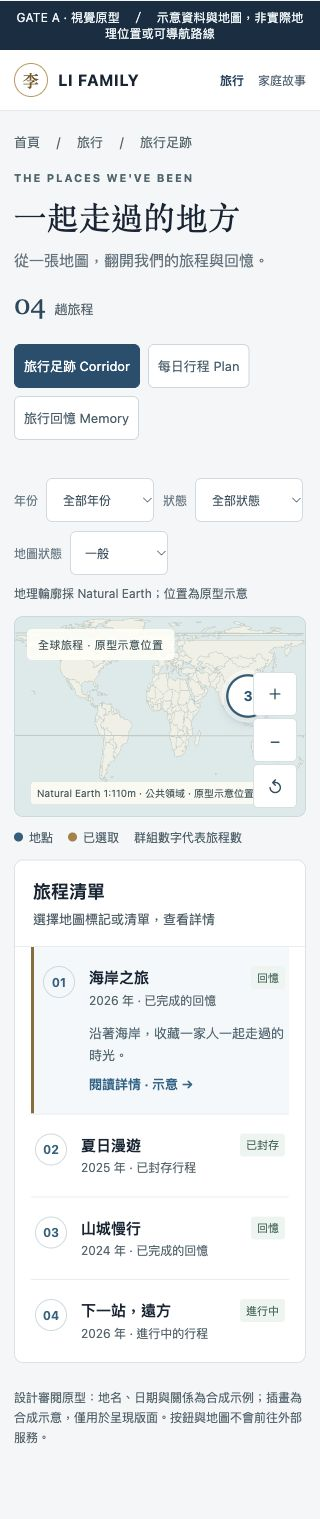
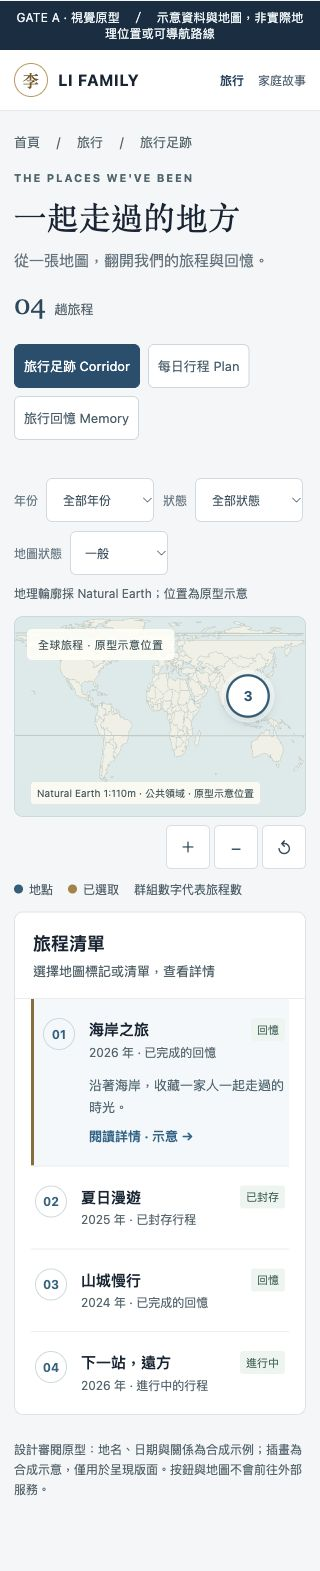
Refine Atlas Gate A review prototype

diff --git a/docs/phase-artifacts/issue-175/gate-a/prototype.html b/docs/phase-artifacts/issue-175/gate-a/prototype.html
@@ -1,6 +1,6 @@
 <!doctype html><html lang="zh-Hant"><head><meta charset="utf-8"><meta name="viewport" content="width=device-width,initial-scale=1"><title>Travel Atlas · Gate A 視覺原型（合成資料）</title><style>
-:root{font-family:Inter,"Noto Sans TC",ui-sans-serif,system-ui,sans-serif;color:#172535;background:#f3f6f8;--blue:#1765a8;--line:#d5dfe4;--muted:#657580}*{box-sizing:border-box}body{margin:0}button,select{font:inherit}button{cursor:pointer}button:focus-visible,select:focus-visible{outline:3px solid #8f6525;outline-offset:3px}.prototype{background:#142e43;color:#edf5f7;font-size:12px;text-align:center;padding:8px 16px;letter-spacing:.02em}.top{background:#fff;border-bottom:1px solid #e2e9ec}.nav{max-width:1360px;margin:auto;padding:16px 36px;display:flex;align-items:center;justify-content:space-between;gap:20px}.brand{display:flex;align-items:center;gap:10px;font-weight:700;letter-spacing:.04em}.crest{width:34px;height:34px;border:1px solid #bb9959;border-radius:50%;display:grid;place-items:center;color:#765b26;font-family:serif}.navlinks{font-size:14px;color:#526575;display:flex;gap:28px}.navlinks span:first-child{color:#193e5c;font-weight:700}.shell{max-width:1360px;padding:28px 36px 80px;margin:auto}.breadcrumbs{font-size:13px;color:#53666e;margin-bottom:24px}.eyebrow{font-size:11px;letter-spacing:.16em;color:#49656e;font-weight:700;text-transform:uppercase}.intro{display:flex;justify-content:space-between;align-items:end;gap:24px;margin-bottom:24px}.intro h1{font-family:Georgia,"Noto Serif TC",serif;font-size:clamp(36px,4vw,52px);font-weight:500;letter-spacing:.01em;margin:9px 0}.intro p{color:#61737d;line-height:1.7;margin:0;font-size:15px}.count{font-size:13px;color:#53666e;white-space:nowrap}.count strong{font-family:Georgia,serif;font-size:27px;color:#24485d;font-weight:400;margin-right:5px}.tabs{display:flex;gap:8px;flex-wrap:wrap;margin-bottom:28px}.tabs button,.chip{border:1px solid #cbd8df;background:#fff;color:#475f6d;border-radius:6px;min-height:44px;padding:0 17px;font-size:14px}.tabs button[aria-selected=true]{background:#1d4f70;color:white;border-color:#1d4f70}.filterbar{display:flex;align-items:end;justify-content:space-between;gap:16px;margin-bottom:14px}.filters{display:flex;gap:9px;flex-wrap:wrap}.filterbar label{font-size:12px;color:#647984;display:flex;align-items:center;gap:8px}.filterbar select{height:44px;border:1px solid #cedae0;border-radius:6px;padding:0 30px 0 12px;background:#fff;color:#314b5a}.smallnote{font-size:12px;color:#53666e}.layout{display:grid;grid-template-columns:minmax(0,1.65fr) minmax(300px,1fr);gap:20px;align-items:start}.map{height:auto;aspect-ratio:800 / 550;position:relative;overflow:hidden;border:1px solid #c9d8dc;border-radius:9px;background:#dcebed}.map svg{width:100%;height:100%;display:block}.map-label{position:absolute;top:20px;left:20px;z-index:1;background:#fffef7e8;padding:8px 11px;border-radius:5px;font-size:11px;color:#435b60;letter-spacing:.04em}.map-foot{position:absolute;bottom:12px;left:16px;z-index:1;color:#435b60;background:#fffdf4dc;border-radius:3px;padding:4px 6px;font-size:10px}.marker{position:absolute;transform:translate(-50%,-50%);width:44px;height:44px;border:0;background:transparent;display:grid;place-items:center;padding:0;z-index:2}.marker i{font-style:normal;display:grid;place-items:center;background:#235c7d;color:#fff;border:3px solid #fff;width:32px;height:32px;border-radius:50%;box-shadow:0 2px 8px #1c47575c;font-size:12px;font-weight:700;transition:transform .18s,box-shadow .18s}.marker.selected i{background:#74541f;transform:scale(1.15);box-shadow:0 0 0 4px #fff8,0 3px 9px #1c47575c}.marker.cluster i{background:#fff;color:#1b5572;border:2px solid #255d78;width:38px;height:38px}.popup{position:absolute;left:17%;top:21%;z-index:3;background:#fff;border-radius:7px;box-shadow:0 8px 30px #1e3b4350;padding:13px 15px;width:190px;font-size:12px;color:#53666e}.popup strong{display:block;font-size:15px;color:#203b49;margin-bottom:5px}.popup button{border:0;background:none;color:#1a648d;padding:8px 0 0;font-weight:700}.popup .close{float:right;padding:0;font-size:18px;color:#4c626b;line-height:1}.controls{position:absolute;right:14px;bottom:14px;z-index:5;display:flex;flex-direction:column;gap:4px}.controls button{width:44px;height:44px;border:1px solid #d4e0e1;background:#fff;color:#294e60;border-radius:5px;font-size:17px}.panel{background:#fff;border:1px solid #dbe4e8;border-radius:9px;overflow:hidden}.panelhead{padding:22px 22px 16px;border-bottom:1px solid #e8edef}.panelhead h2{font-size:18px;margin:0 0 6px}.panelhead p{margin:0;color:#4c6068;font-size:13px}.items{padding:0 20px}.item{width:100%;text-align:left;display:flex;gap:14px;padding:19px 4px;border:0;border-bottom:1px solid #e9eef0;background:transparent;color:inherit}.item:last-child{border-bottom:0}.item.selected{background:#f3f8fa;box-shadow:inset 3px 0 #8b6c32;padding-left:12px}.num{flex:none;width:32px;height:32px;display:grid;place-items:center;border:1px solid #c9dbe1;border-radius:50%;font-size:12px;color:#256281;font-weight:700}.itembody{flex:1;min-width:0}.itemtop{display:flex;justify-content:space-between;gap:8px}.item strong{font-size:15px;line-height:1.5}.meta{font-size:12px;color:#53666e;margin-top:5px;line-height:1.6}.tag{font-size:11px;color:#426c62;background:#edf5f0;border-radius:3px;padding:4px 6px;white-space:nowrap;height:fit-content}.detail{font-size:13px;line-height:1.7;color:#4e6973;margin-top:12px}.action{display:inline-block;color:#1c6489;font-weight:700;margin-top:7px}.photo{width:100%;height:120px;object-fit:cover;border-radius:4px;margin-top:12px}.caption{font-size:11px;color:#53666e;margin-top:4px}.memory .shell{background:#f8f6f0}.memory .intro h1{color:#37463f}.memory .map{background:#dce9e5}.memory .eyebrow{color:#8a7249}.memory .tabs button[aria-selected=true]{background:#4e675d;border-color:#4e675d}.memory .marker i{background:#537166}.memory .marker.selected i{background:#74541f}.footnote{margin-top:24px;color:#53666e;font-size:12px;line-height:1.7}.empty{padding:24px;color:#4c6068;font-size:14px}.empty button{display:block;margin-top:12px;border:0;background:none;color:#1765a8;padding:0;text-decoration:underline}.legend{display:flex;gap:15px;flex-wrap:wrap;font-size:12px;color:#4c626b;margin-top:12px}.dot{display:inline-block;width:9px;height:9px;border-radius:50%;background:#285e7d;margin-right:6px}.dot.gold{background:#aa803d}.days{display:flex;gap:8px;overflow:auto;margin-bottom:16px}.days button{white-space:nowrap;border:1px solid #cbd8df;background:#fff;border-radius:6px;min-height:44px;padding:0 16px;color:#49616d}.days button.active{background:#1d4f70;color:#fff}.days button:disabled{opacity:.5;cursor:default}.mobile-detail{display:none}@media(max-width:760px){.nav{padding:13px 20px}.navlinks{gap:14px;font-size:12px}.navlinks span:last-child{display:none}.shell{padding:22px 20px 60px}.breadcrumbs{margin-bottom:20px}.intro{display:block}.intro h1{font-size:36px}.count{margin-top:16px}.tabs{margin-bottom:22px}.tabs button{padding:0 12px}.filterbar{display:block}.filters{margin-bottom:9px}.layout{grid-template-columns:1fr;gap:14px}.map{height:auto;aspect-ratio:800 / 550}.popup{display:none}.mobile-detail{display:block}.panelhead{padding:18px}.items{padding:0 16px}.photo{height:155px}.map-label{top:12px;left:12px}.controls{bottom:8px;right:8px;gap:2px}.controls button{width:44px;height:44px}.controls button{width:44px;height:44px}.smallnote{line-height:1.5}}@media(max-width:350px){.shell{padding-left:14px;padding-right:14px}.nav{padding-left:14px;padding-right:14px}.intro h1{font-size:32px}.tabs button{padding:0 9px;font-size:13px}}@media(prefers-reduced-motion:reduce){*,*::before,*::after{transition-duration:.01ms!important;scroll-behavior:auto!important}}
-.sr-only{position:absolute;width:1px;height:1px;padding:0;margin:-1px;overflow:hidden;clip:rect(0,0,0,0);white-space:nowrap;border:0}.chip-label{display:flex;align-items:center}.detail-block{display:block}.state-picker{font-size:12px;color:#647984;display:flex;align-items:center;gap:8px}.state-picker select{height:44px;border:1px solid #cedae0;border-radius:6px;padding:0 10px;background:white;color:#314b5a}.story-link{display:block;border:0;background:transparent;color:#1765a8;font-weight:700;min-height:44px;padding:0 12px;margin-left:44px}.group-label{padding:14px 4px;font-size:13px;color:#385d6a}.group-label button{float:right;border:0;background:transparent;color:#1765a8;min-height:44px;margin-top:-10px}.popup{transform:translate(18px,-110%)}.popup.popup-left{transform:translate(calc(-100% - 18px),-110%)}.popup.popup-below{transform:translate(18px,12px)}.popup.popup-left.popup-below{transform:translate(calc(-100% - 18px),12px)}.popup-hint{display:block;margin-top:8px;color:#1a648d}.map-overlay{position:absolute;inset:0;z-index:4;background:#eef4f3ed;display:grid;place-items:center;text-align:center;padding:30px;color:#345867;font-size:15px}.map-overlay[hidden],#markers[hidden],.popup[hidden]{display:none}@media(max-width:760px){.state-picker{margin-bottom:9px}.popup{display:none}}@media(prefers-reduced-motion:no-preference){.item.selected .detail{animation:chapter-in .3s ease-out}@keyframes chapter-in{from{opacity:.3;transform:translateY(5px)}to{opacity:1;transform:translateY(0)}}}</style></head><body><div class="prototype">GATE A · 視覺原型　／　示意資料與地圖，非實際地理位置或可導航路線</div><div id="announcement" class="sr-only" aria-live="polite"></div><div id="app"><header class="top"><div class="nav"><div class="brand"><span class="crest">李</span><span>LI FAMILY</span></div><div class="navlinks"><span>旅行</span><span>家庭故事</span><span>關於我們</span></div></div></header><main class="shell"><div class="breadcrumbs">首頁　 /　 旅行　 /　 <span id="crumb">旅行足跡</span></div><div class="intro"><div><div class="eyebrow" id="eyebrow">THE PLACES WE'VE BEEN</div><h1 id="title">一起走過的地方</h1><p id="subtitle">從一張地圖，翻開我們的旅程與回憶。</p></div><div class="count" id="count"><strong>4</strong> 趟旅程</div></div><div class="tabs" role="tablist" aria-label="原型頁面"><button role="tab" aria-selected="true" data-page="corridor">旅行足跡 Corridor</button><button role="tab" aria-selected="false" data-page="plan">每日行程 Plan</button><button role="tab" aria-selected="false" data-page="memory">旅行回憶 Memory</button></div><div id="days" class="days" hidden></div><div class="filterbar"><div class="filters" id="filters"></div><label class="state-picker">地圖狀態 <select id="map-state"><option>一般</option><option>載入中</option><option>地圖不可用</option><option>家庭隱私</option><option>無地點</option></select></label><div class="smallnote" id="hint">地圖與清單呈現相同的示意內容</div></div><div class="layout"><section><div class="map" id="map" role="region" aria-label="互動地圖，標記位置為原型示意，清單保留完整旅程"><svg viewBox="0 0 800 550" preserveAspectRatio="xMidYMid slice" aria-hidden="true"><rect width="800" height="550" fill="#dbe9e9"/><path d="M-30 70 Q100 42 170 85 T320 67 Q390 40 450 80 L465 126 Q400 158 339 142 T210 190 Q130 175 73 208 L-30 190Z" fill="#f0efe3" stroke="#c6d5cb" stroke-width="2"/><path d="M340 150 Q400 128 470 145 T577 191 Q658 180 722 211 L830 220 L830 485 Q732 476 680 450 T575 470 Q500 433 434 450 T309 420 Q249 380 272 326 T308 260 Q306 204 340 150Z" fill="#f1f0e5" stroke="#c6d5cb" stroke-width="2"/><path d="M-10 313 Q96 287 150 320 T210 391 Q195 445 220 482 L190 560 L-10 560Z" fill="#f0efe3" stroke="#c6d5cb" stroke-width="2"/><path d="M318 250 Q412 248 475 290 T620 313 M300 333 Q430 310 520 365 T730 390 M410 154 Q452 221 471 301 T520 451 M585 188 Q558 260 613 315 T659 453" fill="none" stroke="#d7ddd2" stroke-width="2"/><path d="M290 307 Q410 286 498 298 T660 345" fill="none" stroke="#fffdf7" stroke-width="4"/><g fill="#536a64" font-family="sans-serif" font-size="13" letter-spacing="2"><text x="116" y="269">海洋</text><text x="369" y="210">山 巒</text><text x="546" y="271">城 市</text><text x="400" y="408">海 岸</text></g></svg><div class="map-label" id="map-label">◈　示意地圖</div><div class="map-overlay" id="map-overlay" hidden></div><div id="markers"></div><div class="controls" role="group" aria-label="地圖縮放"><button type="button" data-zoom="in" aria-label="放大地圖">＋</button><button type="button" data-zoom="out" aria-label="縮小地圖">−</button><button type="button" data-zoom="reset" aria-label="重設地圖">↺</button></div><div class="popup" id="popup" hidden></div><div class="map-foot">Natural Earth 1:110m · 公共領域 · 原型示意位置</div></div><div class="legend"><span><i class="dot"></i>地點</span><span><i class="dot gold"></i>已選取</span><span id="legend-extra">數字代表同一地點的旅程數</span></div></section><section class="panel" aria-label="地點與故事清單"><div class="panelhead"><h2 id="list-title">旅程清單</h2><p id="list-sub">選擇地圖標記或清單，查看詳情</p></div><div id="items" class="items"></div></section></div><p class="footnote">設計審閱原型：地名、日期與關係為合成示例；插畫為合成示意，僅用於呈現版面。按鈕與地圖不會前往外部服務。</p></main></div><script>
+:root{font-family:Inter,"Noto Sans TC",ui-sans-serif,system-ui,sans-serif;color:#172535;background:#f3f6f8;--blue:#1765a8;--line:#d5dfe4;--muted:#657580}*{box-sizing:border-box}body{margin:0}button,select{font:inherit}button{cursor:pointer}button:focus-visible,select:focus-visible{outline:3px solid #8f6525;outline-offset:3px}.prototype{background:#142e43;color:#edf5f7;font-size:12px;text-align:center;padding:8px 16px;letter-spacing:.02em}.top{background:#fff;border-bottom:1px solid #e2e9ec}.nav{max-width:1360px;margin:auto;padding:16px 36px;display:flex;align-items:center;justify-content:space-between;gap:20px}.brand{display:flex;align-items:center;gap:10px;font-weight:700;letter-spacing:.04em}.crest{width:34px;height:34px;border:1px solid #bb9959;border-radius:50%;display:grid;place-items:center;color:#765b26;font-family:serif}.navlinks{font-size:14px;color:#526575;display:flex;gap:28px}.navlinks span:first-child{color:#193e5c;font-weight:700}.shell{max-width:1360px;padding:28px 36px 80px;margin:auto}.breadcrumbs{font-size:13px;color:#53666e;margin-bottom:24px}.eyebrow{font-size:11px;letter-spacing:.16em;color:#49656e;font-weight:700;text-transform:uppercase}.intro{display:flex;justify-content:space-between;align-items:end;gap:24px;margin-bottom:24px}.intro h1{font-family:Georgia,"Noto Serif TC",serif;font-size:clamp(36px,4vw,52px);font-weight:500;letter-spacing:.01em;margin:9px 0}.intro p{color:#61737d;line-height:1.7;margin:0;font-size:15px}.count{font-size:13px;color:#53666e;white-space:nowrap}.count strong{font-family:Georgia,serif;font-size:27px;color:#24485d;font-weight:400;margin-right:5px}.tabs{display:flex;gap:8px;flex-wrap:wrap;margin-bottom:28px}.tabs button,.chip{border:1px solid #cbd8df;background:#fff;color:#475f6d;border-radius:6px;min-height:44px;padding:0 17px;font-size:14px}.tabs button[aria-selected=true]{background:#1d4f70;color:white;border-color:#1d4f70}.filterbar{display:flex;align-items:end;justify-content:space-between;gap:16px;margin-bottom:14px}.filters{display:flex;gap:9px;flex-wrap:wrap}.filterbar label{font-size:12px;color:#647984;display:flex;align-items:center;gap:8px}.filterbar select{height:44px;border:1px solid #cedae0;border-radius:6px;padding:0 30px 0 12px;background:#fff;color:#314b5a}.smallnote{font-size:12px;color:#53666e}.layout{display:grid;grid-template-columns:minmax(0,1.65fr) minmax(300px,1fr);gap:20px;align-items:start}.map-wrap{position:relative}.map{height:auto;aspect-ratio:800 / 550;position:relative;overflow:hidden;border:1px solid #c9d8dc;border-radius:9px;background:#dcebed}.map svg{width:100%;height:100%;display:block}.map-label{position:absolute;top:20px;left:20px;z-index:1;background:#fffef7e8;padding:8px 11px;border-radius:5px;font-size:11px;color:#435b60;letter-spacing:.04em}.map-foot{position:absolute;bottom:12px;left:16px;z-index:1;color:#435b60;background:#fffdf4dc;border-radius:3px;padding:4px 6px;font-size:10px}.marker{position:absolute;transform:translate(-50%,-50%);width:44px;height:44px;border:0;background:transparent;display:grid;place-items:center;padding:0;z-index:2}.marker i{font-style:normal;display:grid;place-items:center;background:#235c7d;color:#fff;border:3px solid #fff;width:32px;height:32px;border-radius:50%;box-shadow:0 2px 8px #1c47575c;font-size:12px;font-weight:700;transition:transform .18s,box-shadow .18s}.marker.selected i{background:#74541f;transform:scale(1.15);box-shadow:0 0 0 4px #fff8,0 3px 9px #1c47575c}.marker.cluster i{background:#fff;color:#1b5572;border:2px solid #255d78;width:38px;height:38px}.popup{position:absolute;left:17%;top:21%;z-index:3;background:#fff;border-radius:7px;box-shadow:0 8px 30px #1e3b4350;padding:13px 15px;width:190px;font-size:12px;color:#53666e}.popup strong{display:block;font-size:15px;color:#203b49;margin-bottom:5px}.popup button{border:0;background:none;color:#1a648d;padding:8px 0 0;font-weight:700}.popup .close{float:right;padding:0;font-size:18px;color:#4c626b;line-height:1}.controls{position:absolute;right:14px;bottom:14px;z-index:5;display:flex;flex-direction:column;gap:4px}.controls button{width:44px;height:44px;border:1px solid #d4e0e1;background:#fff;color:#294e60;border-radius:5px;font-size:17px}.panel{background:#fff;border:1px solid #dbe4e8;border-radius:9px;overflow:hidden}.panelhead{padding:22px 22px 16px;border-bottom:1px solid #e8edef}.panelhead h2{font-size:18px;margin:0 0 6px}.panelhead p{margin:0;color:#4c6068;font-size:13px}.items{padding:0 20px}.item{width:100%;text-align:left;display:flex;gap:14px;padding:19px 4px;border:0;border-bottom:1px solid #e9eef0;background:transparent;color:inherit}.item:last-child{border-bottom:0}.item.selected{background:#f3f8fa;box-shadow:inset 3px 0 #8b6c32;padding-left:12px}.num{flex:none;width:32px;height:32px;display:grid;place-items:center;border:1px solid #c9dbe1;border-radius:50%;font-size:12px;color:#256281;font-weight:700}.itembody{flex:1;min-width:0}.itemtop{display:flex;justify-content:space-between;gap:8px}.item strong{font-size:15px;line-height:1.5}.meta{font-size:12px;color:#53666e;margin-top:5px;line-height:1.6}.tag{font-size:11px;color:#426c62;background:#edf5f0;border-radius:3px;padding:4px 6px;white-space:nowrap;height:fit-content}.detail{font-size:13px;line-height:1.7;color:#4e6973;margin-top:12px}.action{display:inline-block;color:#1c6489;font-weight:700;margin-top:7px}.photo{width:100%;height:120px;object-fit:cover;border-radius:4px;margin-top:12px}.caption{font-size:11px;color:#53666e;margin-top:4px}.memory .shell{background:#f8f6f0}.memory .intro h1{color:#37463f}.memory .map{background:#dce9e5}.memory .eyebrow{color:#8a7249}.memory .tabs button[aria-selected=true]{background:#4e675d;border-color:#4e675d}.memory .marker i{background:#537166}.memory .marker.selected i{background:#74541f}.footnote{margin-top:24px;color:#53666e;font-size:12px;line-height:1.7}.empty{padding:24px;color:#4c6068;font-size:14px}.empty button{display:block;margin-top:12px;border:0;background:none;color:#1765a8;padding:0;text-decoration:underline}.legend{display:flex;gap:15px;flex-wrap:wrap;font-size:12px;color:#4c626b;margin-top:12px}.dot{display:inline-block;width:9px;height:9px;border-radius:50%;background:#285e7d;margin-right:6px}.dot.gold{background:#aa803d}.days{display:flex;gap:8px;overflow:auto;margin-bottom:16px}.days button{white-space:nowrap;border:1px solid #cbd8df;background:#fff;border-radius:6px;min-height:44px;padding:0 16px;color:#49616d}.days button.active{background:#1d4f70;color:#fff}.days button:disabled{opacity:.5;cursor:default}.mobile-detail{display:none}@media(max-width:760px){.nav{padding:13px 20px}.navlinks{gap:14px;font-size:12px}.navlinks span:last-child{display:none}.shell{padding:22px 20px 60px}.breadcrumbs{margin-bottom:20px}.intro{display:block}.intro h1{font-size:36px}.count{margin-top:16px}.tabs{margin-bottom:22px}.tabs button{padding:0 12px}.filterbar{display:block}.filters{margin-bottom:9px}.layout{grid-template-columns:1fr;gap:14px}.map{height:auto;aspect-ratio:800 / 550}.popup{display:none}.mobile-detail{display:block}.panelhead{padding:18px}.items{padding:0 16px}.photo{height:155px}.map-label{top:12px;left:12px}.controls{position:static;justify-content:flex-end;flex-direction:row;gap:4px;margin-top:8px}.controls button{width:44px;height:44px}.smallnote{line-height:1.5}}@media(max-width:350px){.shell{padding-left:14px;padding-right:14px}.nav{padding-left:14px;padding-right:14px}.intro h1{font-size:32px}.tabs button{padding:0 9px;font-size:13px}}@media(prefers-reduced-motion:reduce){*,*::before,*::after{transition-duration:.01ms!important;scroll-behavior:auto!important}}
+.sr-only{position:absolute;width:1px;height:1px;padding:0;margin:-1px;overflow:hidden;clip:rect(0,0,0,0);white-space:nowrap;border:0}.chip-label{display:flex;align-items:center}.detail-block{display:block}.state-picker{font-size:12px;color:#647984;display:flex;align-items:center;gap:8px}.state-picker select{height:44px;border:1px solid #cedae0;border-radius:6px;padding:0 10px;background:white;color:#314b5a}.story-link{display:block;border:0;background:transparent;color:#1765a8;font-weight:700;min-height:44px;padding:0 12px;margin-left:44px}.group-label{padding:14px 4px;font-size:13px;color:#385d6a}.group-label button{float:right;border:0;background:transparent;color:#1765a8;min-height:44px;margin-top:-10px}.popup{transform:translate(18px,-110%)}.popup.popup-left{transform:translate(calc(-100% - 18px),-110%)}.popup.popup-below{transform:translate(18px,12px)}.popup.popup-left.popup-below{transform:translate(calc(-100% - 18px),12px)}.popup-hint{display:block;margin-top:8px;color:#1a648d}.map-overlay{position:absolute;inset:0;z-index:4;background:#eef4f3ed;display:grid;place-items:center;text-align:center;padding:30px;color:#345867;font-size:15px}.map-overlay[hidden],#markers[hidden],.popup[hidden]{display:none}@media(max-width:760px){.state-picker{margin-bottom:9px}.popup{display:none}}@media(prefers-reduced-motion:no-preference){.item.selected .detail{animation:chapter-in .3s ease-out}@keyframes chapter-in{from{opacity:.3;transform:translateY(5px)}to{opacity:1;transform:translateY(0)}}}</style></head><body><div class="prototype">GATE A · 視覺原型　／　示意資料與地圖，非實際地理位置或可導航路線</div><div id="announcement" class="sr-only" aria-live="polite"></div><div id="app"><header class="top"><div class="nav"><div class="brand"><span class="crest">李</span><span>LI FAMILY</span></div><div class="navlinks"><span>旅行</span><span>家庭故事</span><span>關於我們</span></div></div></header><main class="shell"><div class="breadcrumbs">首頁　 /　 旅行　 /　 <span id="crumb">旅行足跡</span></div><div class="intro"><div><div class="eyebrow" id="eyebrow">THE PLACES WE'VE BEEN</div><h1 id="title">一起走過的地方</h1><p id="subtitle">從一張地圖，翻開我們的旅程與回憶。</p></div><div class="count" id="count"><strong>4</strong> 趟旅程</div></div><div class="tabs" role="tablist" aria-label="原型頁面"><button role="tab" aria-selected="true" data-page="corridor">旅行足跡 Corridor</button><button role="tab" aria-selected="false" data-page="plan">每日行程 Plan</button><button role="tab" aria-selected="false" data-page="memory">旅行回憶 Memory</button></div><div id="days" class="days" hidden></div><div class="filterbar"><div class="filters" id="filters"></div><label class="state-picker">地圖狀態 <select id="map-state"><option>一般</option><option>載入中</option><option>地圖不可用</option><option>家庭隱私</option><option>無地點</option></select></label><div class="smallnote" id="hint">地圖與清單呈現相同的示意內容</div></div><div class="layout"><section><div class="map-wrap"><div class="map" id="map" role="region" aria-label="互動地圖，標記位置為原型示意，清單保留完整旅程"><svg viewBox="0 0 800 550" preserveAspectRatio="xMidYMid slice" aria-hidden="true"><rect width="800" height="550" fill="#dbe9e9"/><path d="M-30 70 Q100 42 170 85 T320 67 Q390 40 450 80 L465 126 Q400 158 339 142 T210 190 Q130 175 73 208 L-30 190Z" fill="#f0efe3" stroke="#c6d5cb" stroke-width="2"/><path d="M340 150 Q400 128 470 145 T577 191 Q658 180 722 211 L830 220 L830 485 Q732 476 680 450 T575 470 Q500 433 434 450 T309 420 Q249 380 272 326 T308 260 Q306 204 340 150Z" fill="#f1f0e5" stroke="#c6d5cb" stroke-width="2"/><path d="M-10 313 Q96 287 150 320 T210 391 Q195 445 220 482 L190 560 L-10 560Z" fill="#f0efe3" stroke="#c6d5cb" stroke-width="2"/><path d="M318 250 Q412 248 475 290 T620 313 M300 333 Q430 310 520 365 T730 390 M410 154 Q452 221 471 301 T520 451 M585 188 Q558 260 613 315 T659 453" fill="none" stroke="#d7ddd2" stroke-width="2"/><path d="M290 307 Q410 286 498 298 T660 345" fill="none" stroke="#fffdf7" stroke-width="4"/><g fill="#536a64" font-family="sans-serif" font-size="13" letter-spacing="2"><text x="116" y="269">海洋</text><text x="369" y="210">山 巒</text><text x="546" y="271">城 市</text><text x="400" y="408">海 岸</text></g></svg><div class="map-label" id="map-label">◈　示意地圖</div><div class="map-overlay" id="map-overlay" hidden></div><div id="markers"></div><div class="popup" id="popup" hidden></div><div class="map-foot">Natural Earth 1:110m · 公共領域 · 原型示意位置</div></div><div class="controls" role="group" aria-label="地圖縮放"><button type="button" data-zoom="in" aria-label="放大地圖">＋</button><button type="button" data-zoom="out" aria-label="縮小地圖">−</button><button type="button" data-zoom="reset" aria-label="重設地圖">↺</button></div></div><div class="legend"><span><i class="dot"></i>地點</span><span><i class="dot gold"></i>已選取</span><span id="legend-extra">數字代表同一地點的旅程數</span></div></section><section class="panel" aria-label="地點與故事清單"><div class="panelhead"><h2 id="list-title">旅程清單</h2><p id="list-sub">選擇地圖標記或清單，查看詳情</p></div><div id="items" class="items"></div></section></div><p class="footnote">設計審閱原型：地名、日期與關係為合成示例；插畫為合成示意，僅用於呈現版面。按鈕與地圖不會前往外部服務。</p></main></div><script>
 const datasets={
  corridor:[
   {id:'c1',name:'海岸之旅',meta:'2026 年 · 已完成的回憶',status:'回憶',year:'2026',coordinate:[109.51,18.25],place:'coast',detail:'沿著海岸，收藏一家人一起走過的時光。'},
@@ -18,12 +18,12 @@ const worldCountriesPath='M795.8,331.6L796.4,331.1L797.2,332.0L796.8,333.7L795.4
 const baseMapViews={corridor:[0,0,800,550],plan:[686,152,40,27.5],memory:[640.65,217.2,5.3,3.64]};
 function activeMapView(){const [x,y,w,h]=baseMapViews[page];const nextW=w/zoom,nextH=h/zoom;return [x+(w-nextW)/2,y+(h-nextH)/2,nextW,nextH]}
 function mapPoint(coordinate){if(!coordinate)return null;const [lon,lat]=coordinate;const [x,y,w,h]=activeMapView();const px=(lon+180)/360*800,py=(90-lat)/180*550;return [((px-x)/w*100),((py-y)/h*100)]}
-function worldMapSvg(){const view=activeMapView();return `<svg xmlns="http://www.w3.org/2000/svg" viewBox="${view.join(' ')}" preserveAspectRatio="xMidYMid meet" aria-hidden="true"><rect width="800" height="550" fill="#dbe9e9"/><path d="${worldCountriesPath}" fill="#f1f0e5" fill-rule="evenodd" stroke="#bdcbc5" stroke-width="0.55" vector-effect="non-scaling-stroke"/></svg>`}
+function worldMapSvg(){const view=activeMapView();const land=page==='memory'?'<path d="M640.9 218.5 C641.3 217.7 642.0 217.6 642.6 217.7 C643.3 217.5 644.2 217.9 644.7 218.5 C645.2 219.0 644.8 219.8 644.1 220.0 C643.4 220.4 642.4 220.2 641.8 219.9 C641.3 219.6 640.8 219.1 640.9 218.5Z" fill="#f1f0e5" stroke="#bdcbc5" stroke-width="1" vector-effect="non-scaling-stroke"/><path d="M641.5 218.8 Q642.4 218.3 643.0 218.7 T644.5 218.8 M642.0 219.4 Q642.8 219.0 643.4 219.4 T644.1 219.5" fill="none" stroke="#d1dbd2" stroke-width="1" vector-effect="non-scaling-stroke"/>':`<path d="${worldCountriesPath}" fill="#f1f0e5" fill-rule="evenodd" stroke="#bdcbc5" stroke-width="0.55" vector-effect="non-scaling-stroke"/>`;return `<svg xmlns="http://www.w3.org/2000/svg" viewBox="${view.join(' ')}" preserveAspectRatio="xMidYMid meet" aria-hidden="true"><rect width="800" height="550" fill="#dbe9e9"/>${land}</svg>`}
 function announce(t){$('announcement').textContent=t}
 function render(focusKey){document.body.className=page==='memory'?'memory':'';document.querySelectorAll('[data-page]').forEach(b=>b.setAttribute('aria-selected',String(b.dataset.page===page)));let cfg={corridor:['旅行足跡',"THE PLACES WE'VE BEEN",'一起走過的地方','從一張地圖，翻開我們的旅程與回憶。','旅程清單'],plan:['每日行程','A DAY TO EXPLORE','把一天走成風景','沿著行程的節奏，找到今天想去的地方。','今日行程'],memory:['旅行回憶','MOMENTS TO REMEMBER','那些留在路上的時光','每一個地點，都有一段值得慢慢讀的故事。','故事與片刻']}[page];$('crumb').textContent=cfg[0];$('eyebrow').textContent=cfg[1];$('title').textContent=cfg[2];$('subtitle').textContent=cfg[3];$('list-title').textContent=cfg[4];let items=visible();if(selected&&!items.some(i=>i.id===selected))selected=null;const grouped=groups(items);if(selectedGroup&&!grouped.some(g=>g.place===selectedGroup))selectedGroup=null;
 $('count').innerHTML='<strong>'+String(items.length).padStart(2,'0')+'</strong> '+(page==='corridor'?'趟旅程':page==='plan'?'個行程片段':'個故事片刻');$('days').hidden=page==='corridor';$('days').innerHTML=page==='corridor'?'':Object.keys(datasets[page]).map(d=>'<button data-day="'+esc(d)+'" class="'+(d===(page==='plan'?day:chapter)?'active':'')+'" aria-pressed="'+(d===(page==='plan'?day:chapter))+'">'+esc(d)+'</button>').join('');
 $('filters').innerHTML=page==='corridor'?'<label>年份 <select id="year">'+['全部年份','2026','2025','2024'].map(x=>'<option '+(year===x?'selected':'')+'>'+x+'</option>').join('')+'</select></label><label>狀態 <select id="status">'+['全部狀態','進行中','已封存','回憶'].map(x=>'<option '+(status===x?'selected':'')+'>'+x+'</option>').join('')+'</select></label>':'<span class="chip chip-label">'+esc(page==='plan'?day:chapter)+' · '+(page==='plan'?'行程順序':'故事地圖')+'</span>';
-$('map-state').value=mapState;$('hint').textContent='地理輪廓採 Natural Earth；位置為原型示意';const map=$('map');map.querySelector('svg').outerHTML=worldMapSvg();$('map-label').textContent=page==='corridor'?'全球旅程 · 原型示意位置':page==='plan'?'日本行程 · 原型示意位置':'海南島 · 故事地點';
+$('map-state').value=mapState;$('hint').textContent=page==='memory'?'合成島嶼輪廓；位置為原型示意':'地理輪廓採 Natural Earth；位置為原型示意';const map=$('map');map.querySelector('svg').outerHTML=worldMapSvg();$('map-label').textContent=page==='corridor'?'全球旅程 · 原型示意位置':page==='plan'?'日本行程 · 原型示意位置':'合成島嶼 · 故事地點';document.querySelector('.map-foot').textContent=page==='memory'?'合成島嶼輪廓 · 非真實地理':'Natural Earth 1:110m · 公共領域 · 原型示意位置';
 $('legend-extra').textContent=page==='corridor'?'群組數字代表旅程數':page==='plan'?'數字代表順序；重疊位置會合併':'重疊地點的故事會合併';$('markers').hidden=mapState!=='一般';$('map-overlay').hidden=mapState==='一般';$('map-overlay').textContent=mapState==='載入中'?'地圖載入中 · 旅程清單仍可閱讀':mapState==='地圖不可用'?'地圖暫時不可用 · 請使用旅程清單':mapState==='家庭隱私'?'家庭地圖未啟用 · 旅程清單仍可閱讀':'目前沒有可顯示的地點 · 請使用旅程清單';
 $('markers').innerHTML=grouped.map((g,i)=>{const active=g.place===selectedGroup||g.items.some(x=>x.id===selected);return '<button class="marker '+(active?'selected ':'')+(g.items.length>1?'cluster':'')+'" style="left:'+g.pos[0]+'%;top:'+g.pos[1]+'%" data-marker="'+esc(g.place)+'" aria-label="'+esc(g.items.length>1?'展開地圖群組：'+groupText(g):'選取 '+g.items[0].name)+'"><i>'+(g.items.length>1?g.items.length:page==='memory'?'✦':page==='plan'?i+1:'●')+'</i></button>'}).join('');
 let group=grouped.find(g=>g.place===selectedGroup);$('items').innerHTML=(group?'<div class="group-label">'+esc(groupText(group))+' <button data-clear-group>顯示全部</button></div>':'')+(items.length?items.filter(x=>!group||group.items.some(y=>y.id===x.id)).map((x,i)=>'<button class="item '+(x.id===selected?'selected':'')+'" data-item="'+esc(x.id)+'" aria-pressed="'+(x.id===selected)+'"><span class="num">'+(page==='memory'?'✦':String(i+1).padStart(2,'0'))+'</span><span class="itembody"><span class="itemtop"><strong>'+esc(x.name)+'</strong>'+(x.status?'<span class="tag">'+esc(x.status)+'</span>':'')+'</span><span class="meta">'+esc(x.meta)+'</span>'+(x.id===selected?'<span class="detail detail-block">'+esc(x.detail)+(x.photo?'<img class="photo" src="'+esc(x.photo)+'" alt="'+esc(x.alt||'旅行照片')+'"><span class="caption detail-block">'+esc(x.caption)+' · 合成示意插畫</span>':'')+'<span class="action detail-block">'+(page==='plan'?'Google Maps · 外部導航示意 ↗':page==='memory'&&x.destination?'故事入口見下方 →':'閱讀詳情 · 示意 →')+'</span></span>':'')+'</span></button>'+(x.id===selected&&x.destination?'<button class="story-link" data-destination="'+esc(x.destination)+'">前往 '+esc(x.destination)+' 的故事 →</button>':'')).join(''):'<div class="empty">沒有符合條件的旅程。<button id="clear">清除篩選</button></div>');

diff --git a/docs/phase-artifacts/issue-175/gate-a/README.md b/docs/phase-artifacts/issue-175/gate-a/README.md
@@ -5,9 +5,9 @@ Status: **UNKNOWN — Human visual approval pending.** This is a standalone desi
 ## Scope and provenance
 
 - Captured 2026-10-30 in the Codex in-app browser from a loopback-only static server. Repository base: `422efb4798392c7a080cae1c9b64af3bdb1a1fea` (merged PR #177).
[1 lines of base64/hex data omitted]
-- Names, dates, coordinates, and stories are prototype examples; illustrations are synthetic. Natural Earth 1:110m geometry is embedded locally. No external tile provider, Payload, real travel photos, or Production data is used. Navigation text is illustrative only.
-- Captures are full-page screenshots at desktop viewport 1440×900 and mobile viewports 320×844 and 390×844. Plan and Memory show an expanded synthetic item. Browser rendering and available fonts are environment-specific.
[2 lines of base64/hex data omitted]
+- Captures are full-page screenshots at desktop viewport 1440×900 and mobile viewports 320×844 and 390×844. Plan and Memory show an expanded synthetic item. The six mobile screenshots and Memory desktop were recaptured on 2026-10-30 after the revision; the unaffected Corridor and Plan desktop screenshots remain from the first review. Browser rendering and available fonts are environment-specific.
 
 | View | Desktop | Mobile 320px | Mobile 390px |
 | --- | --- | --- | --- |
@@ -17,14 +17,14 @@ Status: **UNKNOWN — Human visual approval pending.** This is a standalone desi
 
 ## Findings for Human review
 
-1. **320px Corridor collision:** the group marker overlaps the zoom-in control and the attribution overlaps the reset control. The marker remains reachable in the tested keyboard path, but the visible collision reduces clarity and the exposed pointer target. See [320px Corridor](corridor-320.jpg).
-2. **Memory map legibility:** the local 1:110m geography gives almost no visible land detail at the Memory extent; markers appear on a largely blank field. The prototype cannot establish whether the intended local geographic context is legible. See [desktop Memory](memory-desktop.jpg). Choosing or enabling a map provider is outside this review.
-3. **Synthetic-image limitation:** placeholders demonstrate dimensions and layout only. They cannot validate actual family-photo cropping, contrast, or narrative quality. The visual system calls for authorized family imagery, which this synthetic-only review cannot assess.
+1. **320px Corridor collision addressed:** controls now sit beneath the map at mobile widths, outside the marker and attribution areas. Compare the [original](https://github.com/TavisLi/Li_Family_Web/blob/0a80f670287506a4ad7f47c4631be9820541cf0b/docs/phase-artifacts/issue-175/gate-a/corridor-320.jpg) and [revised](corridor-320.jpg) screenshots.
+2. **Memory context addressed for the prototype:** a synthetic island and interior contour lines give the markers visible context, explicitly labeled as non-geographic. Compare [original](https://github.com/TavisLi/Li_Family_Web/blob/0a80f670287506a4ad7f47c4631be9820541cf0b/docs/phase-artifacts/issue-175/gate-a/memory-desktop.jpg) and [revised](memory-desktop.jpg). This illustration cannot establish real geography, map-provider suitability, or production rendering.
+3. **Synthetic-image limitation remains:** placeholders demonstrate dimensions and layout only. They cannot validate actual family-photo cropping, contrast, or narrative quality. The visual system calls for authorized family imagery, which this synthetic-only review cannot assess.
 
 ## Checks and limits
 
-- At 320px and 390px, all three captured views had document scroll width equal to viewport width; synthetic images loaded. At 768px, Corridor had no document-level horizontal overflow. Desktop screenshots show the full pages.
-- Keyboard Enter expanded the Corridor cluster and selected an item; the selected list item retained focus and exposed pressed state. On desktop, closing the cluster popup returned focus to its marker. A year filter updated the list/count; the map-unavailable state preserved the filtered list. Zoom changed the SVG viewBox, and Plan Day 01 changed the list. These are focused checks, not exhaustive accessibility certification.
+- After revision, all three views at 320px and 390px had document scroll width equal to viewport width; sampled synthetic images loaded. Mobile controls are 44×44px and outside the map; measured marker, zoom button and attribution rectangles did not overlap. The earlier 768px Corridor check had no document-level horizontal overflow.
+- After revision, keyboard Enter expanded the Corridor cluster and selected an item with focus and pressed state intact; zoom and reset worked, and the map-unavailable state preserved the list. Memory selection, zoom and Day 03 switching worked. Previously checked desktop popup focus return, year filtering and Plan Day 01 switching are recorded against the [prior review](https://github.com/TavisLi/Li_Family_Web/blob/0a80f670287506a4ad7f47c4631be9820541cf0b/docs/phase-artifacts/issue-175/gate-a/README.md). These are focused checks, not exhaustive accessibility certification.
 - Browser console showed no errors or warnings during the sampled checks. The local server recorded a missing `/favicon.ico` request (404); the sampled content images loaded. Layout inspection does not establish contrast compliance or every viewport/state.
-- Reduced motion: source inspection found a `prefers-reduced-motion: reduce` transition rule and the chapter animation restricted to `no-preference`. Emulation of the operating-system preference was unavailable in this browser session, so runtime behavior with reduced motion enabled is **UNKNOWN**.
+- Reduced motion: in the normal browser preference, the selected detail used `chapter-in` and marker transitions were 0.18s. A temporary local test copy forced the reduced CSS branch and disabled the no-preference branch: the detail animation computed to `none`, marker transition to 0.00001s, and scroll behavior to `auto`; selection still worked. The temporary copy was removed. The browser could not emulate the actual operating-system preference, so native reduced-motion runtime behavior remains **UNKNOWN**.
 - No Human visual approval is recorded. No external tiles, Payload integration, Schema change, Production deployment, or merge is authorized by this evidence.
